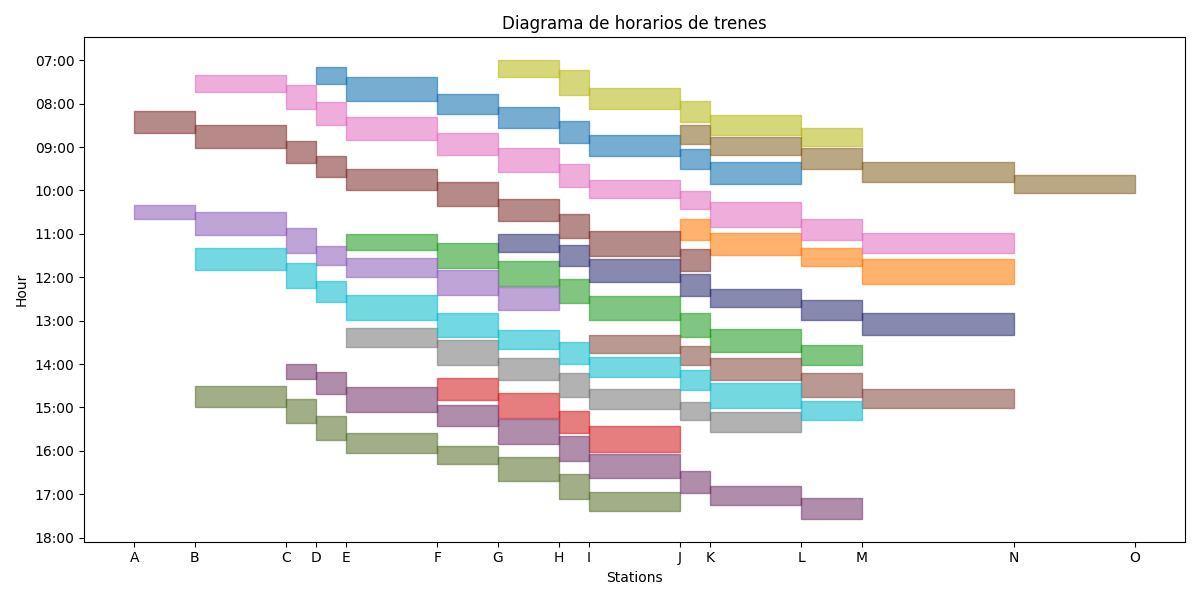
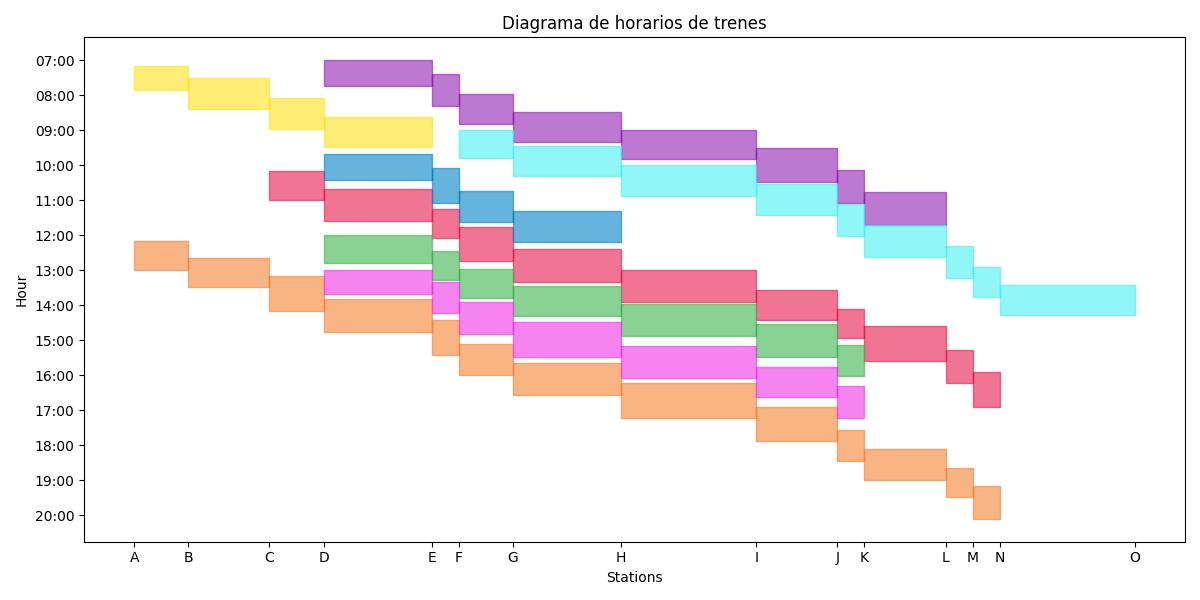
0.3b
Se introduce un nuevo formulario de cálculo de capacidad en la página de simulación y se añaden la vista de Django correspondiente y la ruta URL para procesar las solicitudes de cálculo de capacidad. Se refactoriza src/capacity.py para usar parámetros globales y entradas dinámicas, y se actualiza la paleta de colores del diagrama. También se incluye una pequeña refactorización en simLibrary.py para lograr coherencia en la nomenclatura de las variables y claridad lógica.

diff --git a/railSim/railSimulator/templates/railSimulator/simulation.html b/railSim/railSimulator/templates/railSimulator/simulation.html
@@ -18,9 +18,25 @@
                 <button type="submit">Submit</button>
             </form>
         </div>
+        <!-- Formulario Capacidad -->
+        <details>
+            <summary style="font-weight: bold; font-size: 18px; cursor: pointer;">Capacity</summary>
+                <div class="panel" style="margin-bottom: 40px;">
+                    <h2>Capacity Calculator</h2>
+                    <form method="post" action="{% url 'generate_capacity' %}">
+                        {% csrf_token %}
+                        <label>Station Origin (A-Z): <input type="text" id="stationOrg" name="stationOrg"></label>
+                        <label>Station End (A-Z): <input type="text" id="stationEnd" name="stationEnd"></label>
+                        <label>Start Hour (HH:mm): <input type="text" id="startHourCapacity" name="startHourCapacity"></label>
+                        <label>End Hour (HH:mm): <input type="text" id="endHourCapacity" name="endHourCapacity"></label>
+                        <button type="submit">Submit</button>
+                    </form>
+                </div>
+            </details>
     </div>
     
     <div style="display: flex; align-items: flex-start; gap: 20px;">
+
     <!-- Tabla -->
     <details class="table">
         <summary style="font-weight: bold; font-size: 18px; cursor: pointer;">Ver tabla de horarios</summary>

diff --git a/src/simLibrary.py b/src/simLibrary.py
@@ -123,7 +123,7 @@ def generateTimetable(limits: tuple, trip: tuple):
     valid_lines = []
     valid_timeTables = []
 
-    ocupacion_estaciones = {chr(i): [] for i in range(ord(trip[0]), ord(trip[1]) + 1)}
+    ocuStations = {chr(i): [] for i in range(ord(trip[0]), ord(trip[1]) + 1)}
     security_margin = timedelta(minutes=parameters["securityMargin"])
 
     print(f"[DEBUG] Líneas disponibles: {used_lines}", flush=True)
@@ -133,62 +133,62 @@ def generateTimetable(limits: tuple, trip: tuple):
         current_timeTable = timeTable[lines.index(current_line)]
         current_stations = stations[lines.index(current_line)]
 
-        estaciones_linea = [chr(i) for i in range(ord(current_stations[0]), ord(current_stations[1]))]
-        horas_salida = []
-        horas_llegada = []
+        lineStations = [chr(i) for i in range(ord(current_stations[0]), ord(current_stations[1]))]
+        departureTimes = []
+        arrivalTimes = []
 
-        salida_linea = limits[0] + timedelta(minutes=len(valid_lines) * parameters["lineOffset"])
+        startLine = limits[0] + timedelta(minutes=len(valid_lines) * parameters["lineOffset"])
 
-        intentos = 0
-        linea_valida = False
+        iterations = 0
+        validLine = False
 
-        while not linea_valida:
-            if intentos > parameters["MaxIterations"]:
+        while not validLine:
+            if iterations > parameters["MaxIterations"]:
                 if os.path.exists("./railSim/railSimulator/static/img/diagrama.png"):
                     os.remove("./railSim/railSimulator/static/img/diagrama.png")
                 
                 print("[ERROR] No se pudo generar horario sin solapamientos.")
                 return
 
-            salida_linea = limits[0] + timedelta(minutes=(len(valid_lines) + intentos) * parameters["lineOffset"])
-            horas_salida = []
-            horas_llegada = []
-            conflictos = False
+            startLine = limits[0] + timedelta(minutes=(len(valid_lines) + iterations) * parameters["lineOffset"])
+            departureTimes = []
+            arrivalTimes = []
+            conflicts = False
 
-            for idx, estacion in enumerate(estaciones_linea):
-                duracion_segmento = timedelta(minutes=ran.randint(parameters["lowerMinuteMargin"], parameters["higherMinuteMargin"]))
+            for idx, station in enumerate(lineStations):
+                segmentDuration = timedelta(minutes=ran.randint(parameters["lowerMinuteMargin"], parameters["higherMinuteMargin"]))
 
                 if idx == 0:
-                    departure = salida_linea
+                    departure = startLine
                 else:
-                    departure = horas_llegada[-1]
+                    departure = arrivalTimes[-1]
 
-                arrival = departure + duracion_segmento
+                arrival = departure + segmentDuration
 
                 if arrival > limits[1] or departure > limits[1]:
-                    conflictos = True
+                    conflicts = True
                     break
 
-                if conflictDetection(estacion, departure, arrival, security_margin, ocupacion_estaciones):
-                    conflictos = True
+                if conflictDetection(station, departure, arrival, security_margin, ocuStations):
+                    conflicts = True
                     break
 
-                horas_salida.append(departure)
-                horas_llegada.append(arrival)
+                departureTimes.append(departure)
+                arrivalTimes.append(arrival)
 
-            if not conflictos:
-                for i, estacion in enumerate(estaciones_linea):
-                    start_ocup = horas_salida[i] - security_margin
-                    end_ocup = horas_llegada[i] + security_margin
-                    ocupacion_estaciones[estacion].append((start_ocup, end_ocup))
+            if not conflicts:
+                for i, station in enumerate(lineStations):
+                    start_ocup = departureTimes[i] - security_margin
+                    end_ocup = arrivalTimes[i] + security_margin
+                    ocuStations[station].append((start_ocup, end_ocup))
 
-                linea_valida = True
+                validLine = True
             else:
-                intentos += 1
+                iterations += 1
 
 
-        current_timeTable.append(horas_salida)
-        current_timeTable.append(horas_llegada)
+        current_timeTable.append(departureTimes)
+        current_timeTable.append(arrivalTimes)
 
         try:
             result1 = dbl.modifyEntry(
@@ -202,8 +202,8 @@ def generateTimetable(limits: tuple, trip: tuple):
                 {"Linea": current_line},
                 {
                     "Timetable_Margins": [
-                        marginsTimetable(1, horas_salida, current_line),
-                        marginsTimetable(2, horas_llegada, current_line)
+                        marginsTimetable(1, departureTimes, current_line),
+                        marginsTimetable(2, arrivalTimes, current_line)
                     ]
                 }
             )

diff --git a/src/capacity.py b/src/capacity.py
@@ -2,6 +2,14 @@ import src.dbLibrary as dbl
 import src.simLibrary as simlb
 from datetime import timedelta, datetime
 
+#=== GLOBAL PARAMETERS ===#
+capacityParams = {
+    "stationOrg": None,
+    "stationEnd": None,
+    "startHour": None,
+    "endHour": None
+}
+
 #=== FUNCTIONS ===#
 def selectTimeZone(stationOrg: str, stationEnd: str, earlyHour: str, endHour: str) -> tuple:
     formatHour = "%H:%M"
@@ -68,21 +76,21 @@ def identifyLineTimes(opt:int, timeZone:tuple):
             if ((ord(stations[1]) >= ord(timeZone[0]) >= ord(stations[0])) or (ord(stations[0]) <= ord(timeZone[1]) <= ord(stations[1]))) and (ord(stations[1]) > ord(timeZone[0])) and (stations[0] != timeZone[1]):
                 if ((ord(stations[1]) >= ord(timeZone[0]) >= ord(stations[0])) and (timeZone[2] <= timesOriginal[0][(ord(timeZone[0]) - ord(stations[0]))])):
                     for i in range(0, (ord(stations[1]) - ord(stations[0]))):
-                        if (ord(timeZone[1]) >= (ord(stations[0]) + i) >= ord(stations[0])):
+                        if (ord(timeZone[1]) > (ord(stations[0]) + i) >= ord(stations[0])):
                             if (timeZone[3] >= timesOriginal[0][i] >= timeZone[2]):
                                 lineasVal.append(nLine)
                                 break
                 
                 elif ((ord(stations[0]) <= ord(timeZone[0])) and (timeZone[2] <= timesOriginal[0][(ord(timeZone[0]) - ord(stations[0]))])):
                     for i in range(0, (ord(stations[1]) - ord(stations[0]))):
-                        if (ord(timeZone[1]) >= (ord(stations[0]) + i) >= ord(stations[0])):
+                        if (ord(timeZone[1]) > (ord(stations[0]) + i) >= ord(stations[0])):
                             if (timeZone[3] >= timesOriginal[0][i] >= timeZone[2]):
                                 lineasVal.append(nLine)
                                 break
 
                 elif (ord(timeZone[1]) >= ord(stations[0]) >= ord(timeZone[0])):
                     for i in range(0, (ord(stations[1]) - ord(stations[0]))):
-                        if (ord(timeZone[1]) >= (ord(stations[0]) + i) >= ord(stations[0])):
+                        if (ord(timeZone[1]) > (ord(stations[0]) + i) >= ord(timeZone[0])):
                             if (timeZone[3] >= timesOriginal[0][i] >= timeZone[2]):
                                 lineasVal.append(nLine)
                                 break
@@ -92,8 +100,7 @@ def identifyLineTimes(opt:int, timeZone:tuple):
 
         
         return lineasVal
-
-    
+  
 def saveLine(numberLine:int, timeZone:tuple):
     collection = dbl.selectCollection("trainLines", "TFG")
     lines = dbl.readCollection(collection)
@@ -108,9 +115,8 @@ def saveLine(numberLine:int, timeZone:tuple):
 
             for i in range(0, (ord(stations[1]) - ord(stations[0]))):
                 if (ord(timeZone[0]) <= (ord(stations[0]) + i) < ord(timeZone[1])):
-                    if (timeZone[2] <= ttOrg[0][i] <= timeZone[3]) and (timeZone[2] <= ttOrg[1][i] <= timeZone[3]):
-                        temporaryList1.append(ttOrg[0][i])
-                        temporaryList2.append(ttOrg[1][i])
+                    temporaryList1.append(ttOrg[0][i])
+                    temporaryList2.append(ttOrg[1][i])
 
             ttSave.append(temporaryList1)
             ttSave.append(temporaryList2)
@@ -121,7 +127,10 @@ def saveLine(numberLine:int, timeZone:tuple):
 
 
 def generateSelectedtt():
-    timeZone = selectTimeZone('C', 'I', "07:00", "14:00")
+    timeZone = selectTimeZone(capacityParams["stationOrg"],
+                              capacityParams["stationEnd"],
+                              capacityParams["startHour"],
+                              capacityParams["endHour"])
     nLine = identifyLineTimes(1, timeZone)
     linesVal = identifyLineTimes(2, timeZone)
 
@@ -129,6 +138,3 @@ def generateSelectedtt():
         saveLine(lineIndex, timeZone)
 
     print("Done")
-
-
-generateSelectedtt()

diff --git a/src/generateDiagram.py b/src/generateDiagram.py
@@ -27,22 +27,27 @@ def generateDiagram(outputPath="./railSim/railSimulator/static/img/diagrama.png"
     lines = dbl.readCollection(collection)
     
     colors = [
-        "#1f77b4",  # azul
-        "#ff7f0e",  # naranja
-        "#2ca02c",  # verde
-        "#d62728",  # rojo
-        "#9467bd",  # morado
-        "#8c564b",  # marrón oscuro
-        "#e377c2",  # rosa fuerte
-        "#7f7f7f",  # gris
-        "#bcbd22",  # verde oliva
-        "#17becf",  # azul celeste
-        "#393b79",  # azul marino
-        "#637939",  # verde musgo
-        "#8c6d31",  # marrón dorado
-        "#843c39",  # rojo vino
-        "#7b4173"   # púrpura intenso
-    ]
+    "#E6194B",  # Rojo fuerte
+    "#3CB44B",  # Verde brillante
+    "#FFE119",  # Amarillo
+    "#0082C8",  # Azul eléctrico
+    "#F58231",  # Naranja
+    "#911EB4",  # Púrpura
+    "#46F0F0",  # Cian claro
+    "#F032E6",  # Fucsia
+    "#D2F53C",  # Lima
+    "#FABEBE",  # Rosa claro
+    "#008080",  # Verde petróleo
+    "#E6BEFF",  # Lavanda
+    "#AA6E28",  # Marrón
+    "#800000",  # Rojo oscuro
+    "#FFD8B1",  # Melocotón claro
+    "#000075",  # Azul marino
+    "#808000",  # Oliva
+    "#A9A9FF",  # Azul pastel
+    "#B10DC9",  # Violeta
+    "#FF7F00"   # Naranja oscuro
+]
     rangeStations = 0
     stationOrg = float('inf')
     stationEnd = float('-inf')

diff --git a/railSim/railSimulator/views.py b/railSim/railSimulator/views.py
@@ -4,8 +4,25 @@ from src import simLibrary
 from src import dbLibrary as dbl
 import time
 from datetime import datetime
+from src import capacity as cp
 
 # Create your views here.
+def generate_capacity(request):
+    if request.method == "POST":
+        stationOrg = request.POST.get("stationOrg").upper()
+        stationEnd = request.POST.get("stationEnd").upper()
+        startHour = request.POST.get("startHourCapacity")
+        endHour = request.POST.get("endHourCapacity")
+
+        cp.capacityParams["stationOrg"] = stationOrg
+        cp.capacityParams["stationEnd"] = stationEnd
+        cp.capacityParams["startHour"] = startHour
+        cp.capacityParams["endHour"] = endHour
+
+        cp.generateSelectedtt()
+
+        return redirect('simulator')
+
 def simulator(request):
     if request.method == "POST":
         trip_form = request.POST.get("trip")

diff --git a/railSim/railSim/urls.py b/railSim/railSim/urls.py
@@ -21,5 +21,6 @@ from railSimulator import views
 urlpatterns = [
     path('admin/', admin.site.urls),
     path('', views.home, name="home"),
-    path('simulator/', views.simulator, name="simulator")
+    path('simulator/', views.simulator, name="simulator"),
+    path('generate_capacity/', views.generate_capacity, name='generate_capacity')
 ]
